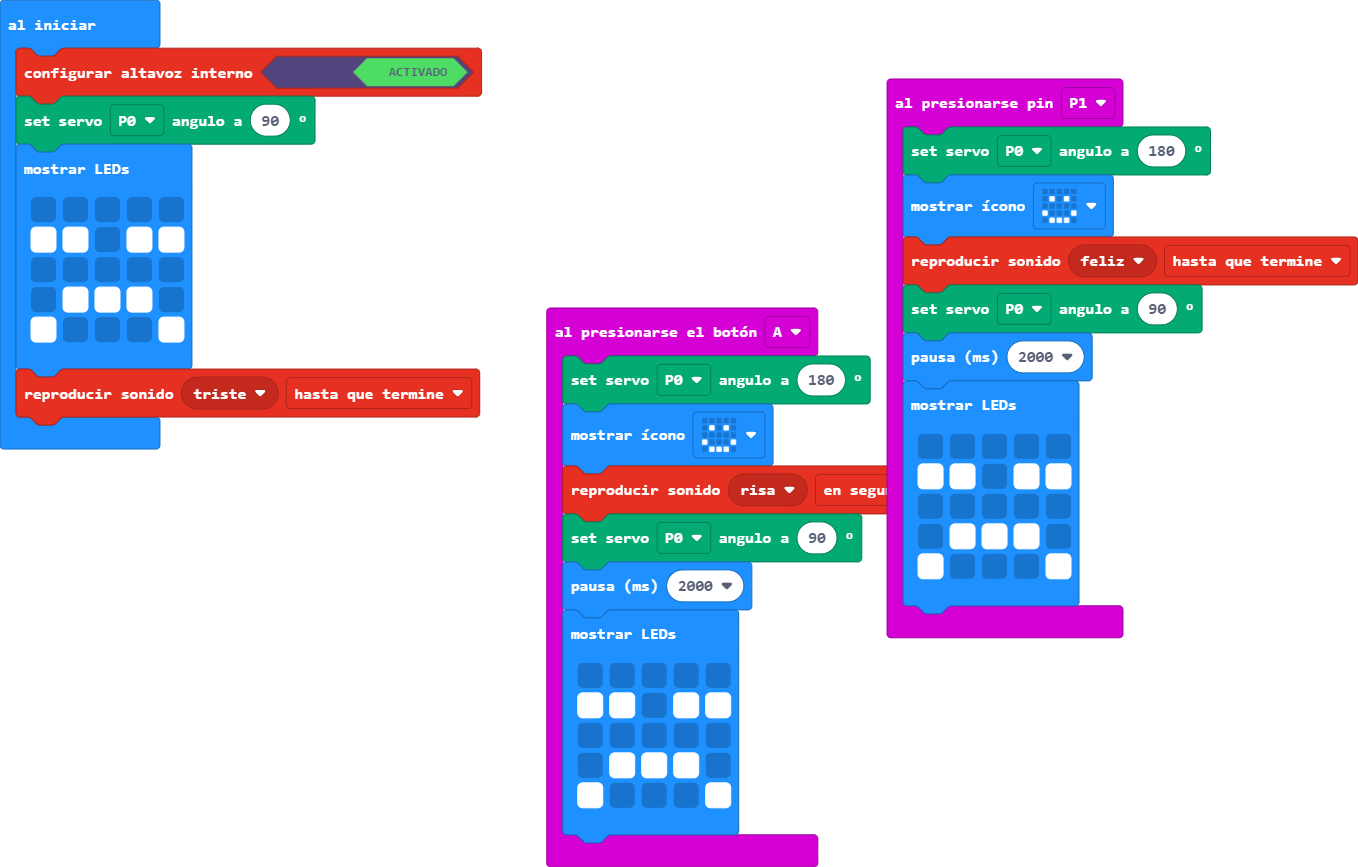
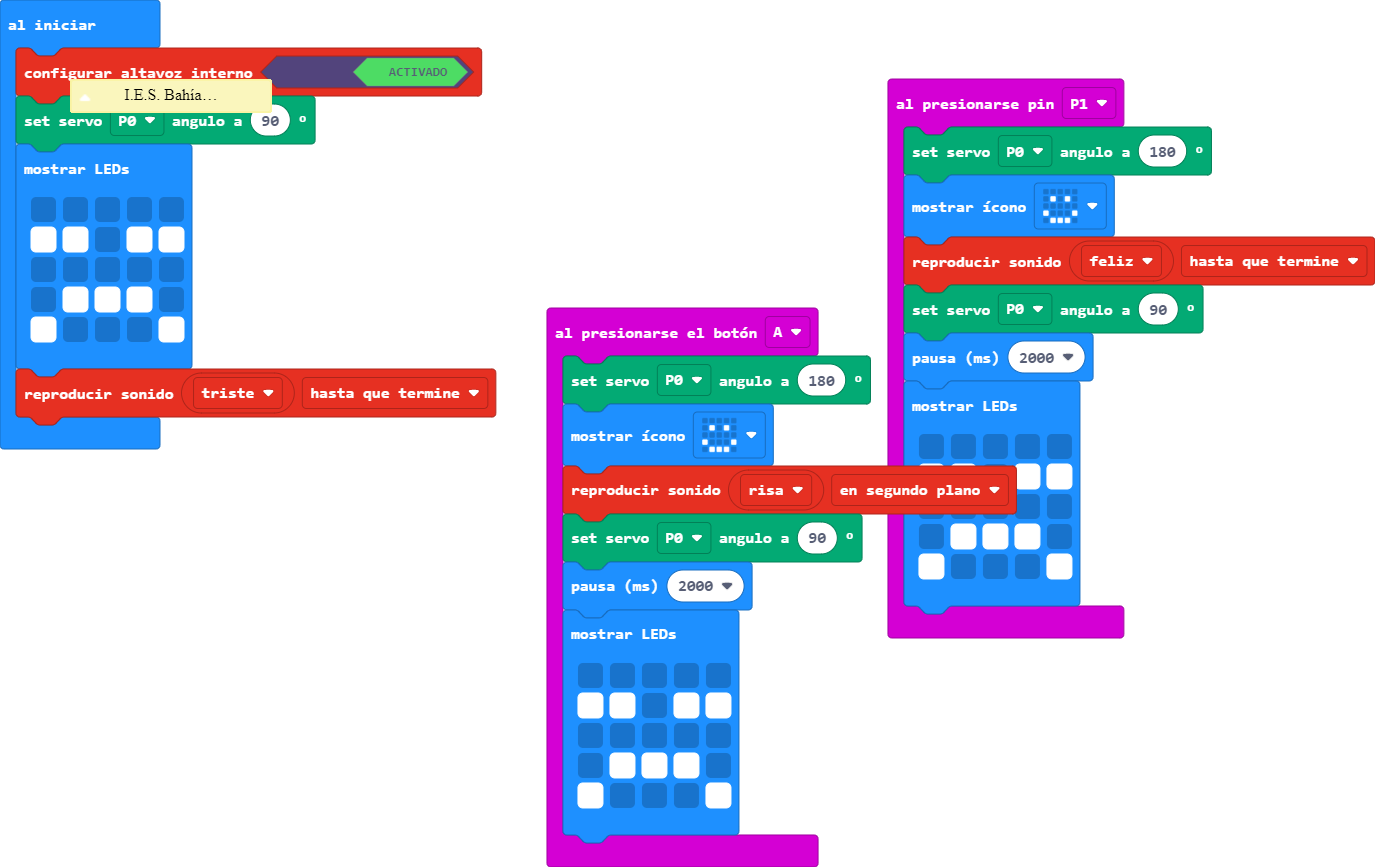
Actualizar pxt.json, main.blocks, main.ts

diff --git a/main.ts b/main.ts
@@ -26,6 +26,24 @@ input.onPinPressed(TouchPin.P1, function () {
         # . . . #
         `)
 })
+/**
+ * Hecho por IkrlegidO
+ */
+/**
+ * ===================
+ */
+/**
+ * Chatarra Colector
+ */
+/**
+ * Moneditas
+ */
+/**
+ * ===================
+ */
+/**
+ * I.E.S. Bahía de Algeciras
+ */
 music.setBuiltInSpeakerEnabled(true)
 servos.P0.setAngle(90)
 basic.showLeds(`
@@ -36,9 +54,3 @@ basic.showLeds(`
     # . . . #
     `)
 music.playSoundEffect(music.builtinSoundEffect(soundExpression.sad), SoundExpressionPlayMode.UntilDone)
-// Hecho por IkrlegidO
-// ===================
-// Chatarra Colector
-// Moneditas
-// ===================
-// I.E.S. Bahía de Algeciras
